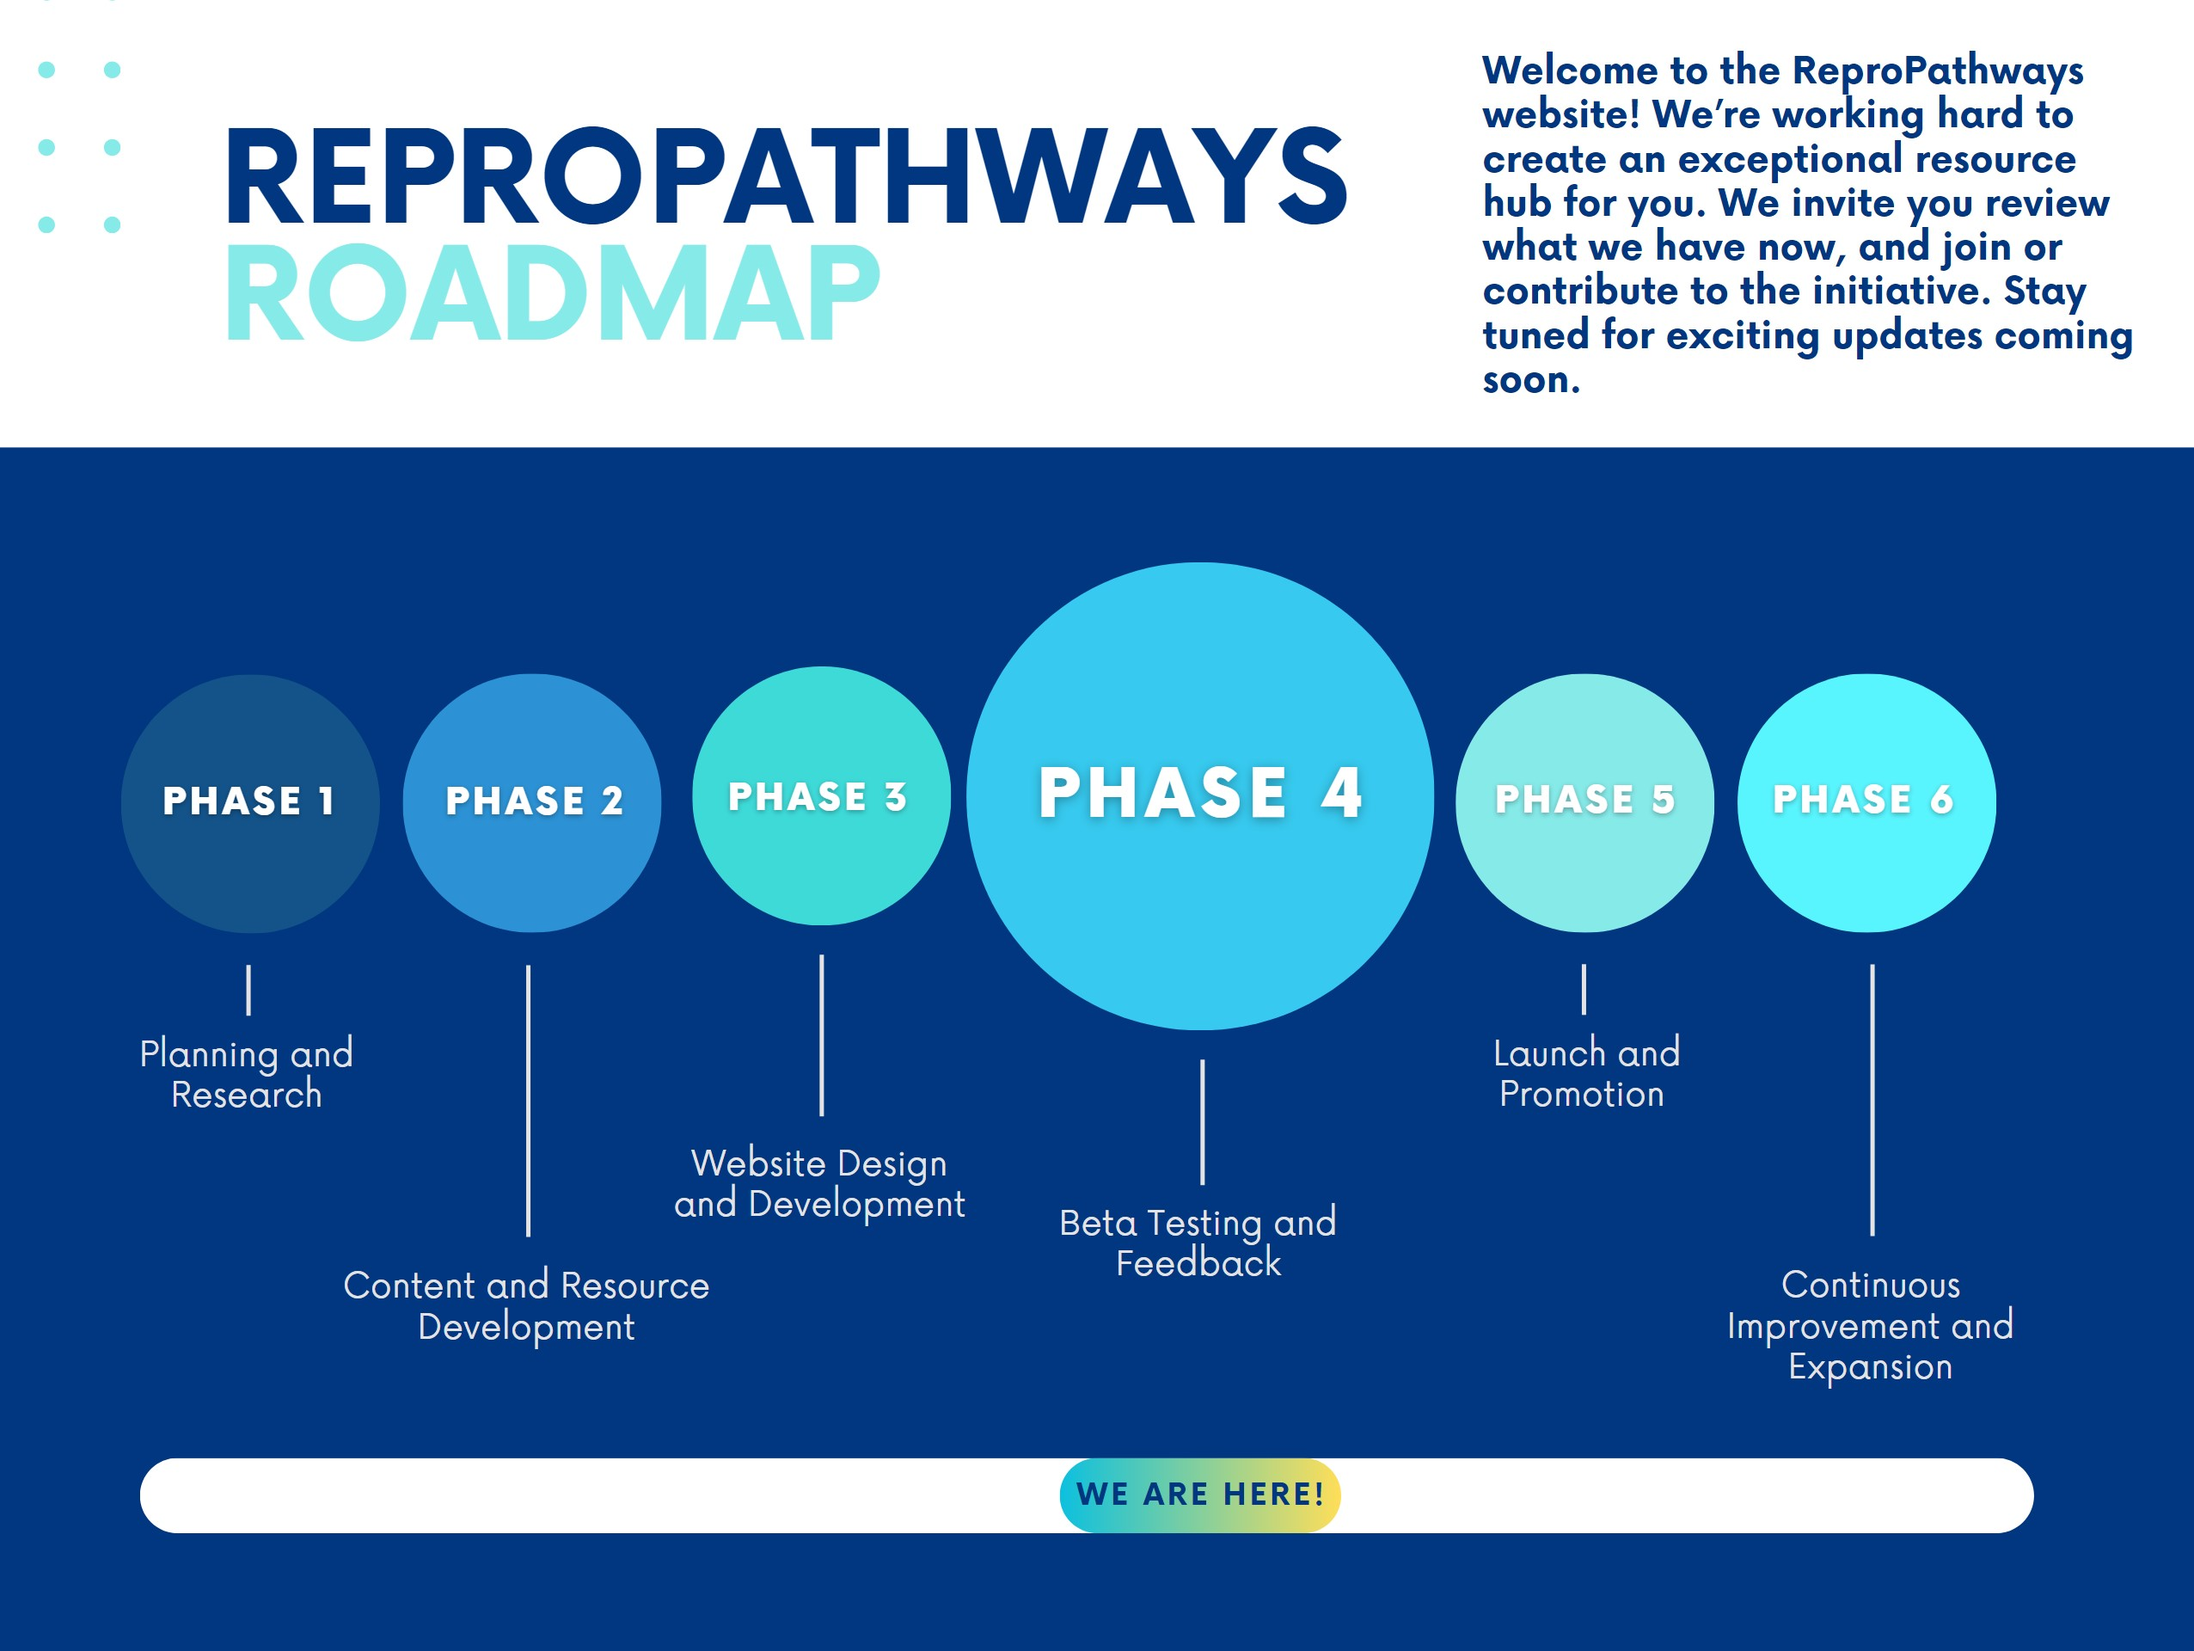
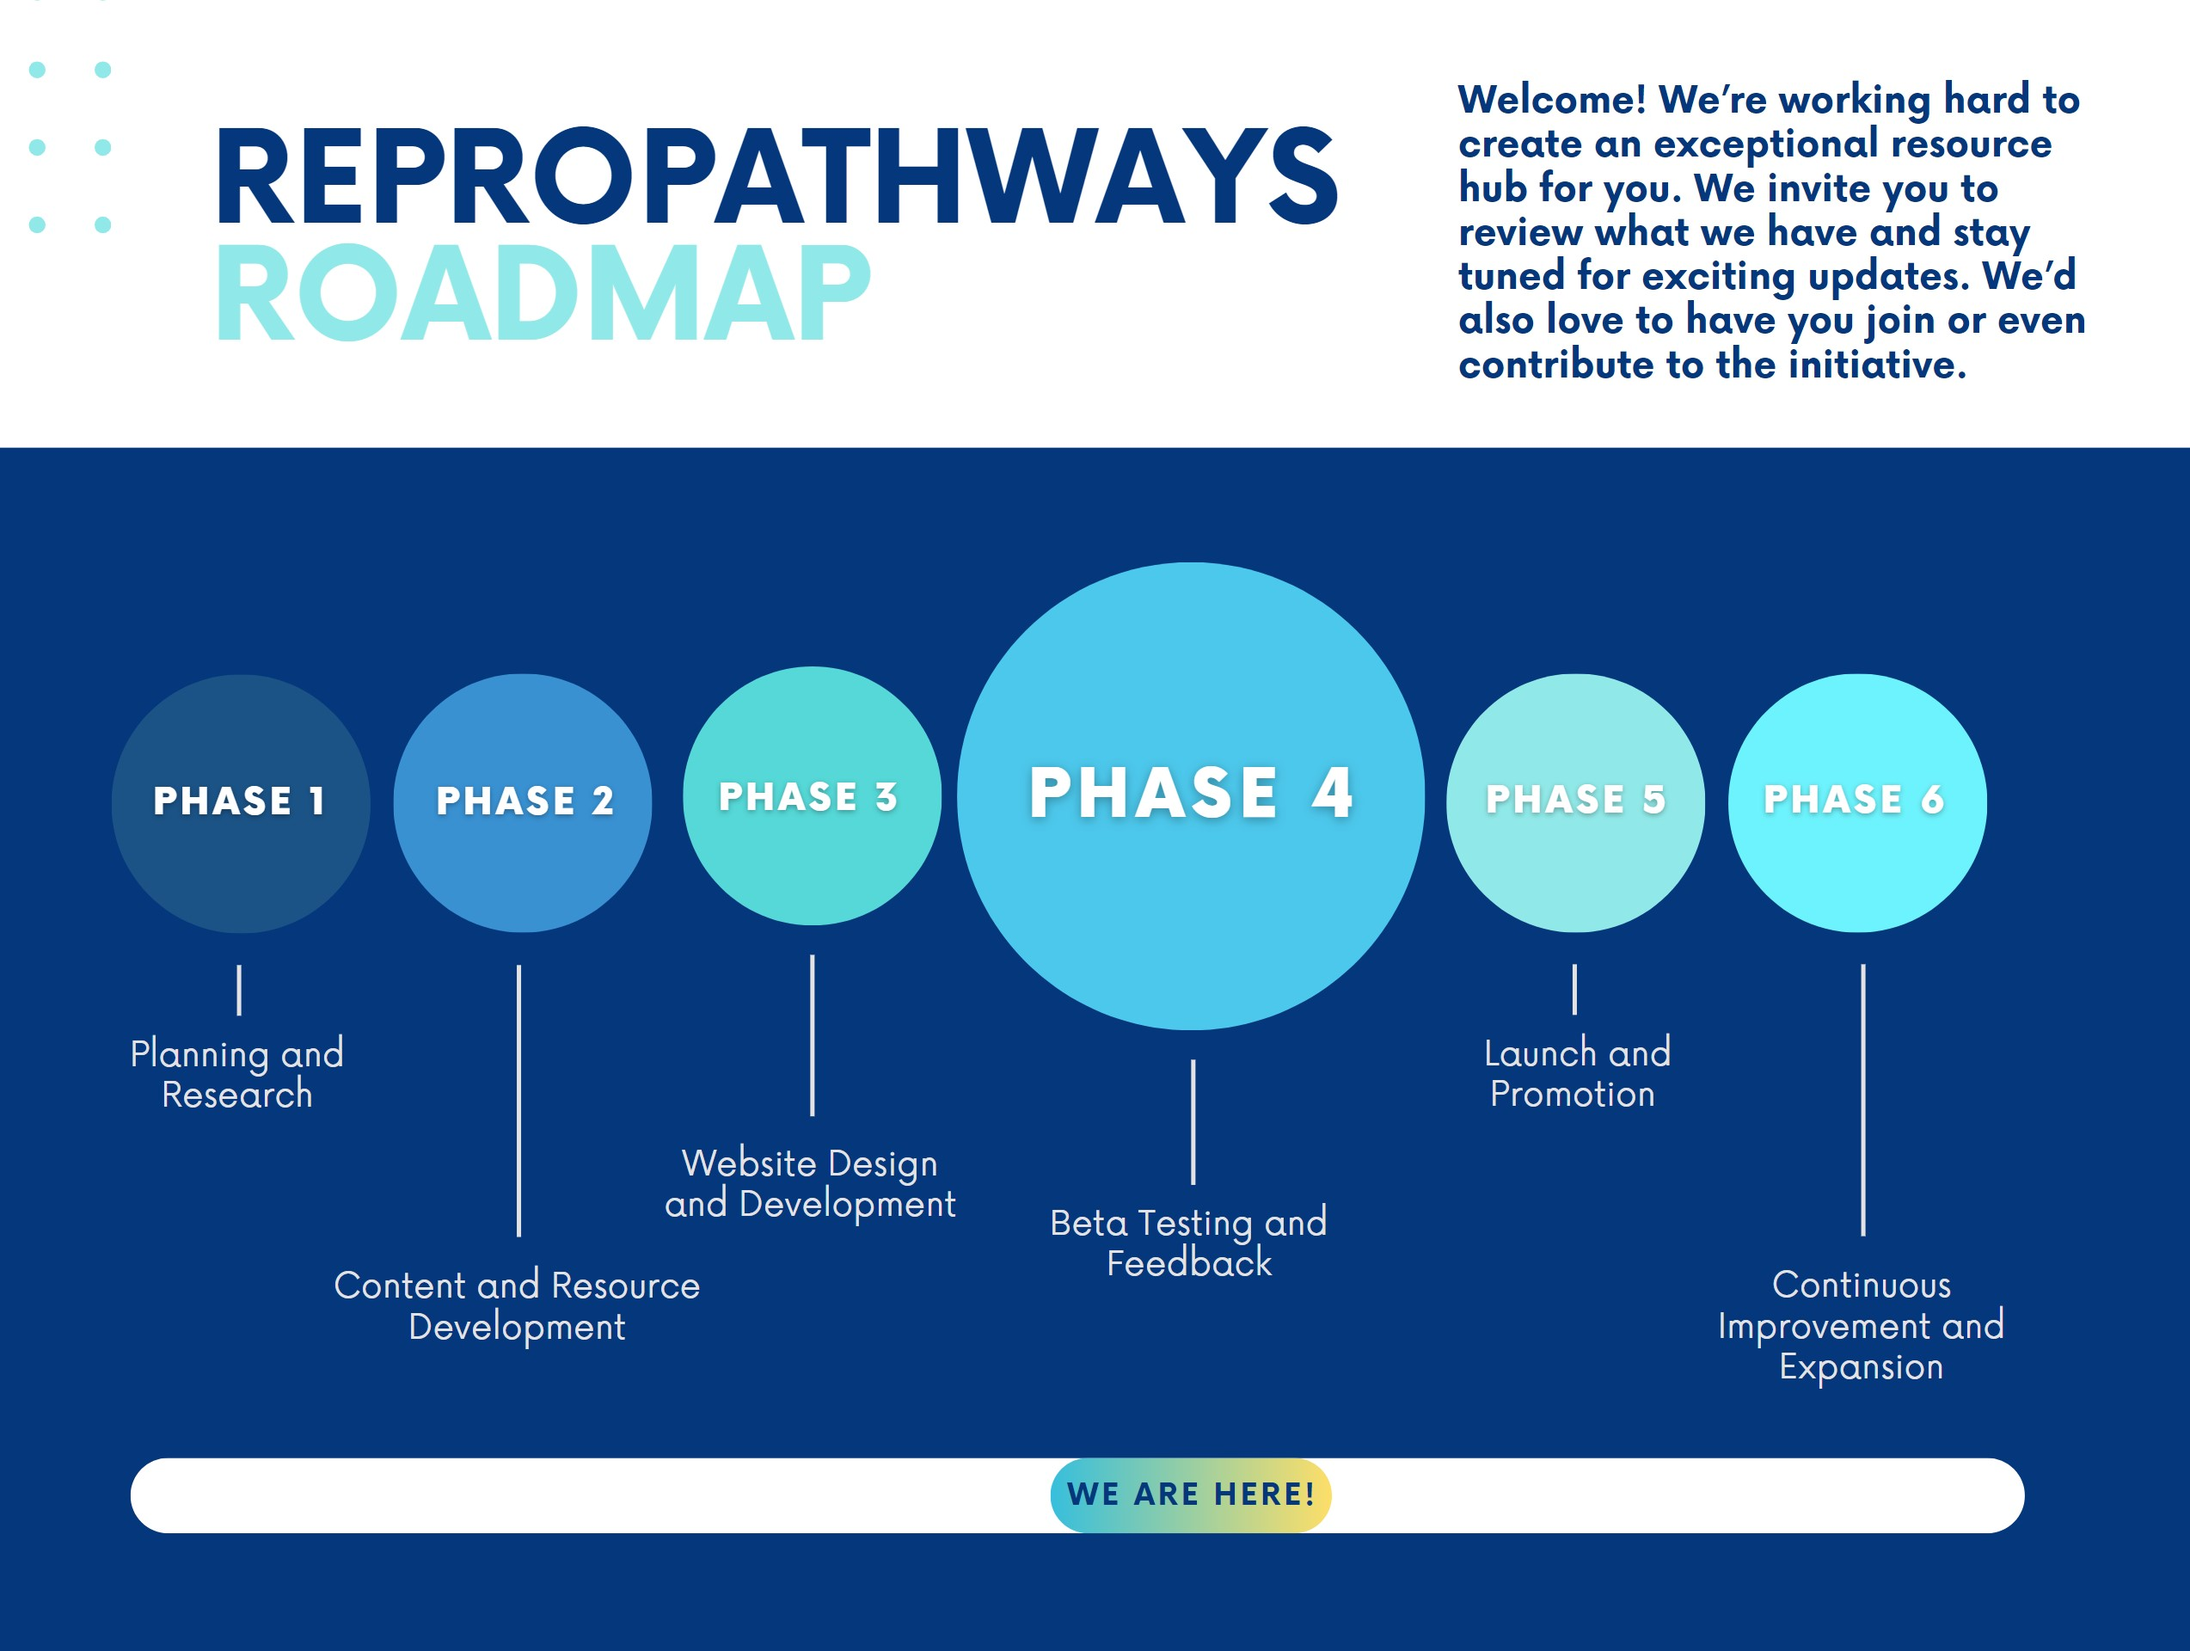
ReproPathways -- tweaks updated

diff --git a/src/pages/index.js b/src/pages/index.js
@@ -73,7 +73,7 @@ export default function HomePage({}) {
         ReproPathways is a community-centered, dynamic resource hub that
         promotes early engagement in- career exploration, effective mentorship,
         and personal growth. Our initiative strives to increase representation
-        in the many career possibilities offered by the fields of reproduction.
+        in the many career possibilities offered by the field of reproduction.
       </h3>
 
       {/* REPROPATHWAYS ROADMAP */}
@@ -95,28 +95,28 @@ export default function HomePage({}) {
             rewarding careers, particularly in an area as vital and impactful as
             reproduction. We understand the immense importance of this field and
             recognize that it requires a diverse and dedicated workforce to
-            address the various challenges and advancements. With a commitment
-            to creating an inclusive and supportive community, we strive to
+            address the various challenges and advancements. Through the
+            creation of an inclusive and supportive community, we strive to
             bridge the gap between aspiring individuals and the opportunities
-            available in reproductive careers. Through various initiatives,
-            resources, mentorship programs, and networking events, we aim to
-            equip aspiring professionals with the knowledge, skills, and
-            connections necessary to thrive in this evolving landscape. Whether
-            you are a student looking to explore career options or a
-            professional seeking to make a meaningful impact, we warmly welcome
-            you to join our growing community.
+            available in reproductive careers. Our various initiatives,
+            resources, mentorship programs, and networking events will aim to
+            equip students with the knowledge, skills, and connections necessary
+            to thrive in this evolving landscape. Whether you are a student
+            looking to explore career options or a professional seeking to make
+            a meaningful impact, we warmly welcome you to join our growing
+            community.
           </p>
         </div>
         <div className={styles.visionContainer}>
           <h2 className={styles.h2AboutVision}>Our Vision</h2>
           <p className={styles.aboutVisionText}>
-            At ReproPathways, we are committed to fostering a more inclusive and
-            diverse reproductive workforce through the creation dynamic resource
-            hub that champions effective mentorship and accessible career
-            exploration. Our mission is to revolutionize the reproductive field
-            by empowering individuals from all backgrounds to pursue and excel
-            in wide range of roles within the sector.
-            <br /> We recognize the critical importance of ensuring equal
+            At ReproPathways, we are committed to fostering an inclusive and
+            diverse reproductive workforce through the creation of a dynamic
+            resource hub that champions early engagement, effective mentorship,
+            and accessible career exploration. Our mission is to revolutionize
+            the reproductive field by empowering individuals from all
+            backgrounds to pursue and excel in the wide range of roles within
+            the sector. We recognize the critical importance of ensuring equal
             opportunities and representation within the reproductive workforce,
             and we also believe in the need to inspire students to pursue
             careers they might have never known were possible. Our initiative

diff --git a/src/pages/about.js b/src/pages/about.js
@@ -190,12 +190,13 @@ export default function About({}) {
               fish at the bottom of a lake.
             </p>
             <p>
-              <b>What initially drew me to the initiative:</b> <br />
-              by the ReproPathways mission and the chance to combine my passions
-              for global health and marketing. As an African American and Queer
-              woman who studies biology and environmental studies, I am all too
-              familiar with healthcare disparities and barriers to entry in
-              fields that lack diversity but painfully need it!
+              <b>What initially drew me to the initiative:</b> <br />I was
+              inspired by the ReproPathways mission and the chance to combine my
+              passions my passions for global health and marketing. As an
+              African American and Queer woman who studies biology and
+              environmental studies, I am all too familiar with healthcare
+              disparities and barriers to entry in fields that lack diversity
+              but painfully need it!
             </p>
           </div>
         </div>

diff --git a/src/pages/explore.js b/src/pages/explore.js
@@ -24,16 +24,18 @@ export default function Explore({}) {
       {/* Explore */}
       <div className={styles.boxContainer}>
         <div className={styles.box1}>
-          <h1 className={styles.title1}>Explore Content Coming Soon!</h1>
+          <h1 className={styles.title1}>Explore content coming soon!</h1>
           <b className={styles.text1}>
-            Come visit this page again soon for more information about Careers
-            in Reproduction!
+            Visit this page again for information on careers in reproduction
           </b>
         </div>
         <div className={styles.box2}>
           <h1 className={styles.title2}>Be a part of the change!</h1>
           <b className={styles.text2}>
-            We invite you to participate in our official survey
+            If you’re a professional, we invite you to participate in our
+            survey.  Your responses will help us provide accurate job
+            information and spark curiosity among undergraduates exploring a
+            path in the wide range of possible careers in reproduction.
           </b>
           <br />
           <br />

diff --git a/src/pages/spotlights.js b/src/pages/spotlights.js
@@ -26,14 +26,17 @@ export default function Spotlights({}) {
         <div className={styles.box1}>
           <h1 className={styles.title1}>Spotlights coming soon!</h1>
           <b className={styles.text1}>
-            Come visit this page again soon for a deeper look into the lives of
-            Repro Professionals!
+            Visit this page again for a deep look into the lives of
+            professionals in the field of reproduction.
           </b>
         </div>
         <div className={styles.box2}>
           <h1 className={styles.title2}>Be a part of the change!</h1>
           <b className={styles.text2}>
-            We invite you to participate in our official survey
+            If you’re a professional, we invite you to participate in our
+            survey. Your responses will help us provide accurate job information
+            and spark curiosity among undergraduates exploring a path in the
+            wide range of possible careers in reproduction.
           </b>
           <br />
           <br />

diff --git a/src/styles/index2.module.css b/src/styles/index2.module.css
@@ -19,7 +19,7 @@
 .title1 {
   /*color: rgb(15, 11, 13);*/
   font-family: "Quicksand", sans-serif;
-  font-size: 2.5rem;
+  font-size: 2.43rem;
   text-align: center;
   text-wrap: wrap;
 }
